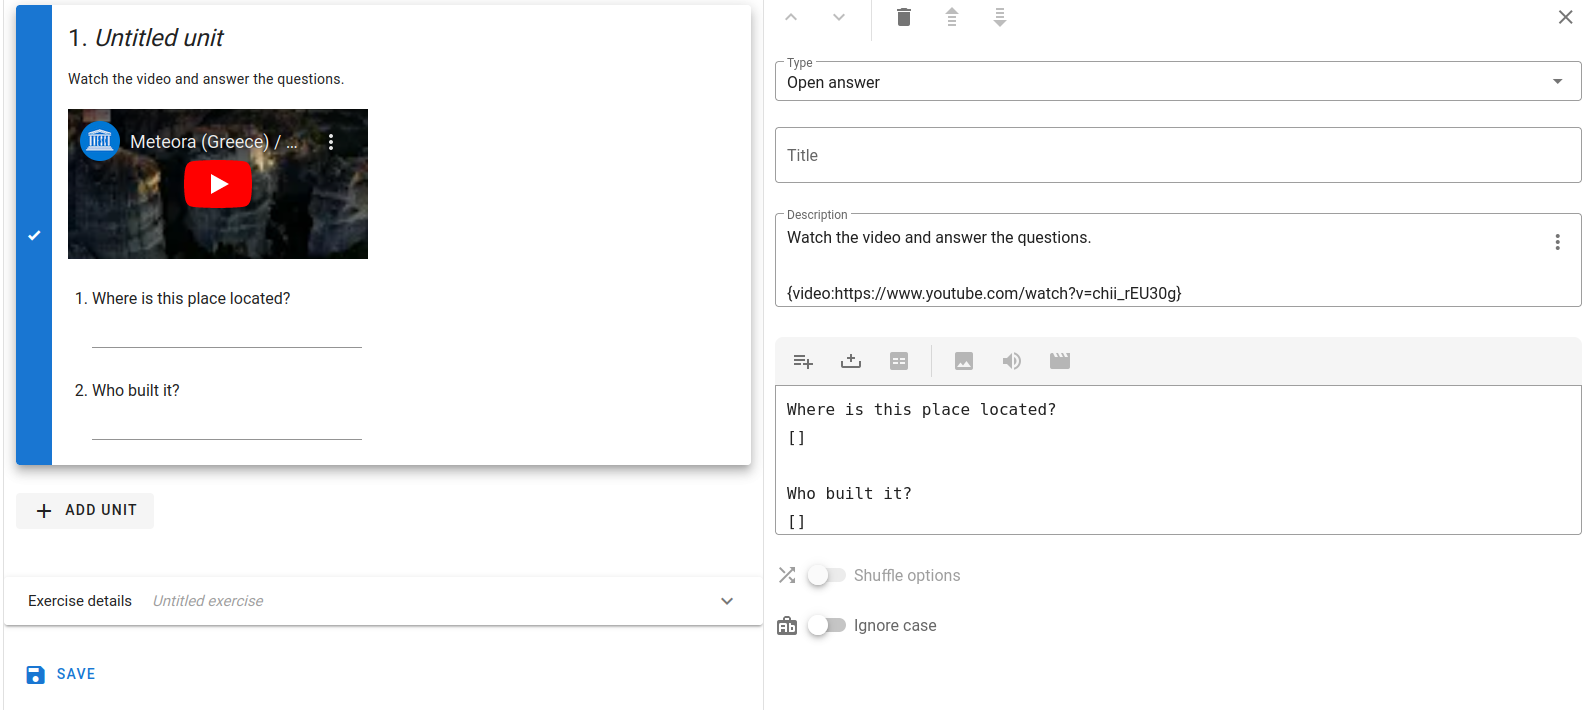
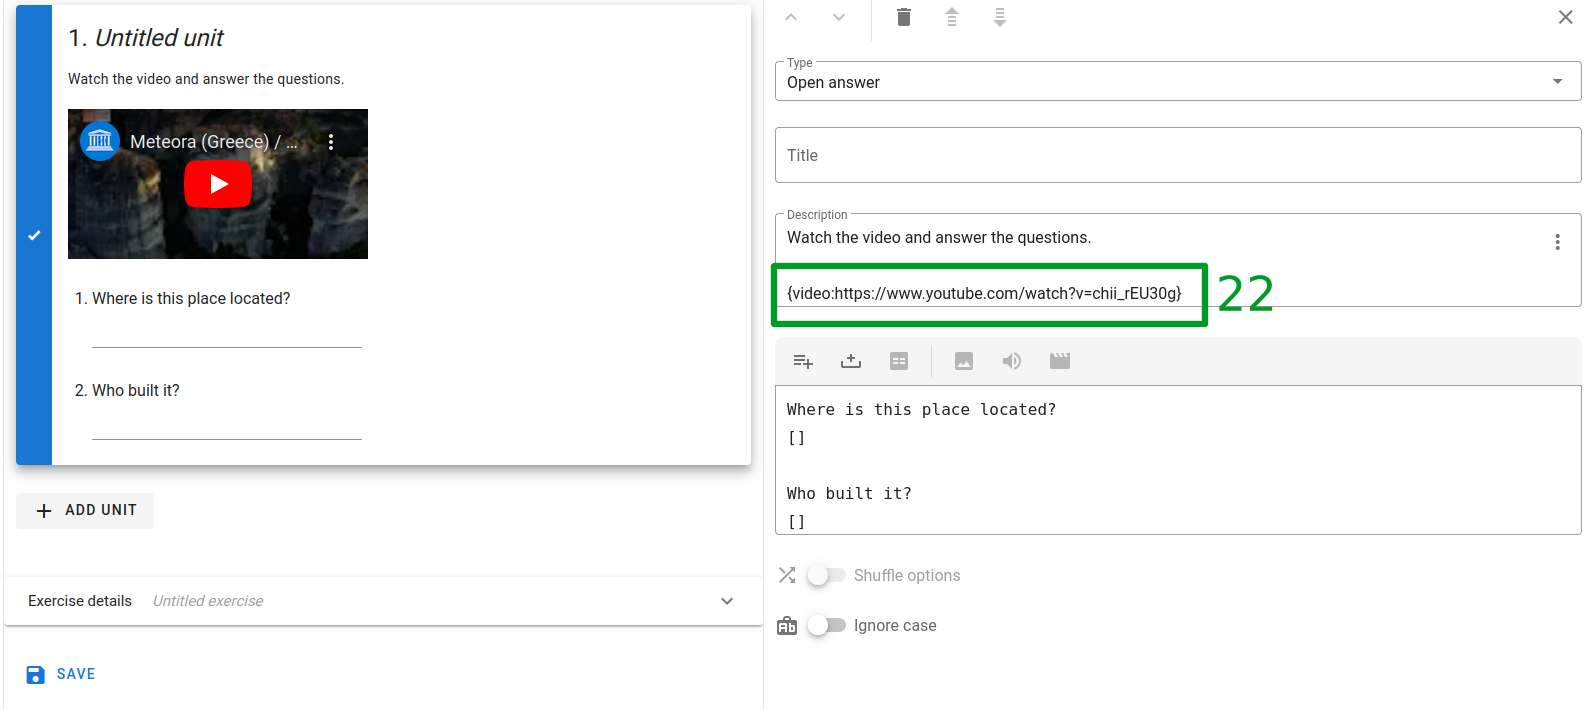
remove in guide "about a video" section and add explanation about video in  "sort and match".

Changed region(s): [[0.4631, 0.3718, 0.8028, 0.4648]]

diff --git a/client/pages/guide.vue b/client/pages/guide.vue
@@ -3,13 +3,12 @@
     <h2 class="mb-3">{{ $t("guide.about") }}</h2>
     <p class="text-justify">{{ $t("guide.about_text") }}</p>
 
-    <v-tabs v-model="tab" center-active show-arrows    >
-      <v-tab >{{ $t('guide.exercice.name') }}</v-tab>
-      <v-tab >{{ $t('guide.gap_filling') }}</v-tab>
-      <v-tab >{{ $t('guide.multiple_choice.name') }}</v-tab>
-      <v-tab >{{ $t('guide.sort_and_match.name') }}</v-tab>
-      <v-tab >{{ $t('guide.video') }}</v-tab>
-    </v-tabs>
+    <v-tabs v-model="tab" center-active show-arrows>
+      <v-tab>{{ $t('guide.exercice.name') }}</v-tab>
+      <v-tab>{{ $t('guide.gap_filling') }}</v-tab>
+      <v-tab>{{ $t('guide.multiple_choice.name') }}</v-tab>
+      <v-tab>{{ $t('guide.sort_and_match.name') }}</v-tab>
+   </v-tabs>
 
     <v-tabs-items v-model="tab" class="pa-1 mt-5">
       <!-- 1_exercice -->
@@ -17,18 +16,18 @@
       <v-tab-item>
         <v-img :src="`/guide/1_exercise.png`" height="300px" contain></v-img>
         {{ $t("guide.exercice.explanation1") }}
-        <br />
-        <br />
+        <br/>
+        <br/>
 
         <v-img
           :src="`/guide/1_exercice_unit.png`"
           height="300px"
           contain
         ></v-img>
-        <br />
+        <br/>
         {{ $t("guide.exercice.explanation2") }}
-        <br />
-        <br />
+        <br/>
+        <br/>
         <v-row align-self="left">
           <v-col>
             <v-img
@@ -38,7 +37,7 @@
             ></v-img>
           </v-col>
           <v-col>
-            <br />
+            <br/>
             <p>{{ $t("guide.exercice.explanation3") }}</p>
 
             <p>{{ $t("guide.exercice.explanation4") }}</p>
@@ -62,60 +61,60 @@
           contain
         ></v-img>
         {{ $t("guide.exercice.gap_filling_1") }}
-        <br />
+        <br/>
         {{ $t("guide.exercice.gap_filling_2") }}
-        <br />
+        <br/>
         {{ $t("guide.exercice.gap_filling_3") }}
-        <br />
+        <br/>
         {{ $t("guide.exercice.gap_filling_4") }}
-        <br />
-        <br />
+        <br/>
+        <br/>
         <v-img
           :src="`/guide/2_gap_filling_tool.png`"
           height="100px"
           contain
         ></v-img>
         {{ $t("guide.exercice.gap_filling_5") }}
-        <br />
+        <br/>
 
-        <br />
+        <br/>
         {{ $t("guide.exercice.gap_filling_open_answer_1") }}
-        <br />
+        <br/>
 
         <v-img
           :src="`/guide/2_gap_filling_open_answer.png`"
           height="300px"
           contain
         ></v-img>
-        <br />
-        <br />
+        <br/>
+        <br/>
         {{ $t("guide.exercice.gap_filling_open_answer_2") }}
-        <br />
-        <br />
+        <br/>
+        <br/>
       </v-tab-item>
 
 
       <!-- 3_multiple_choice -->
       <v-tab-item>
-        {{$t('guide.multiple_choice.explanation1')}}
+        {{ $t('guide.multiple_choice.explanation1') }}
         <br>
 
-        {{$t('guide.multiple_choice.explanation2')}}
+        {{ $t('guide.multiple_choice.explanation2') }}
         <br>
 
         <br>
 
-      <v-img
-        :src="`/guide/3_multiple_choices.png`"
-        height="300px"
-        contain
-      ></v-img>
+        <v-img
+          :src="`/guide/3_multiple_choices.png`"
+          height="300px"
+          contain
+        ></v-img>
 
-        {{$t('guide.multiple_choice.explanation3')}}
-      <br>
+        {{ $t('guide.multiple_choice.explanation3') }}
+        <br>
 
         <br>
-        {{$t('guide.multiple_choice.explanation4')}}
+        {{ $t('guide.multiple_choice.explanation4') }}
 
         <br>
 
@@ -128,15 +127,16 @@
 
         <br>
 
-        {{$t('guide.multiple_choice.explanation5')}}
-      <br>
+        {{ $t('guide.multiple_choice.explanation5') }}
+        <br>
 
         <br>
-      <v-img
+        <v-img
           :src="`/guide/3_multiple_choice_sound.png`"
           height="300px"
           contain
-      ></v-img>
+        ></v-img>
+
 
 
       </v-tab-item>
@@ -144,17 +144,17 @@
       <!-- 4_sort_and_match -->
       <v-tab-item>
 
-        {{$t('guide.sort_and_match.explanation1')}}
+        {{ $t('guide.sort_and_match.explanation1') }}
 
         <br>
 
         <br>
-        {{$t('guide.sort_and_match.explanation1_1')}}
+        {{ $t('guide.sort_and_match.explanation1_1') }}
 
         <br>
 
         <br>
-        {{$t('guide.sort_and_match.explanation2')}}
+        {{ $t('guide.sort_and_match.explanation2') }}
         <br>
 
         <br>
@@ -165,7 +165,7 @@
           contain
         ></v-img>
 
-        {{$t('guide.sort_and_match.explanation3')}}
+        {{ $t('guide.sort_and_match.explanation3') }}
 
         <br>
 
@@ -178,7 +178,7 @@
 
         <br>
 
-        {{$t('guide.sort_and_match.explanation4')}}
+        {{ $t('guide.sort_and_match.explanation4') }}
         <br>
 
         <br>
@@ -190,7 +190,7 @@
 
         <br>
 
-        {{$t('guide.sort_and_match.explanation5')}}
+        {{ $t('guide.sort_and_match.explanation5') }}
         <br>
 
         <br>
@@ -200,13 +200,20 @@
           contain
         ></v-img>
 
-      </v-tab-item>
 
-      <!-- 5_video -->
-      <v-tab-item>
-        {{ $t("guide.construction") }}
-      </v-tab-item>
+        <br>
 
+        {{ $t('guide.sort_and_match.video') }}
+        <br>
+
+        <br>
+        <v-img
+          :src="`/guide/5_video.png`"
+          height="300px"
+          contain
+        ></v-img>
+
+      </v-tab-item>
 
     </v-tabs-items>
 
@@ -216,7 +223,8 @@
 <script>
 export default {
   name: "guide",
-  head() {},
+  head() {
+  },
 
   computed: {
     tab: {
